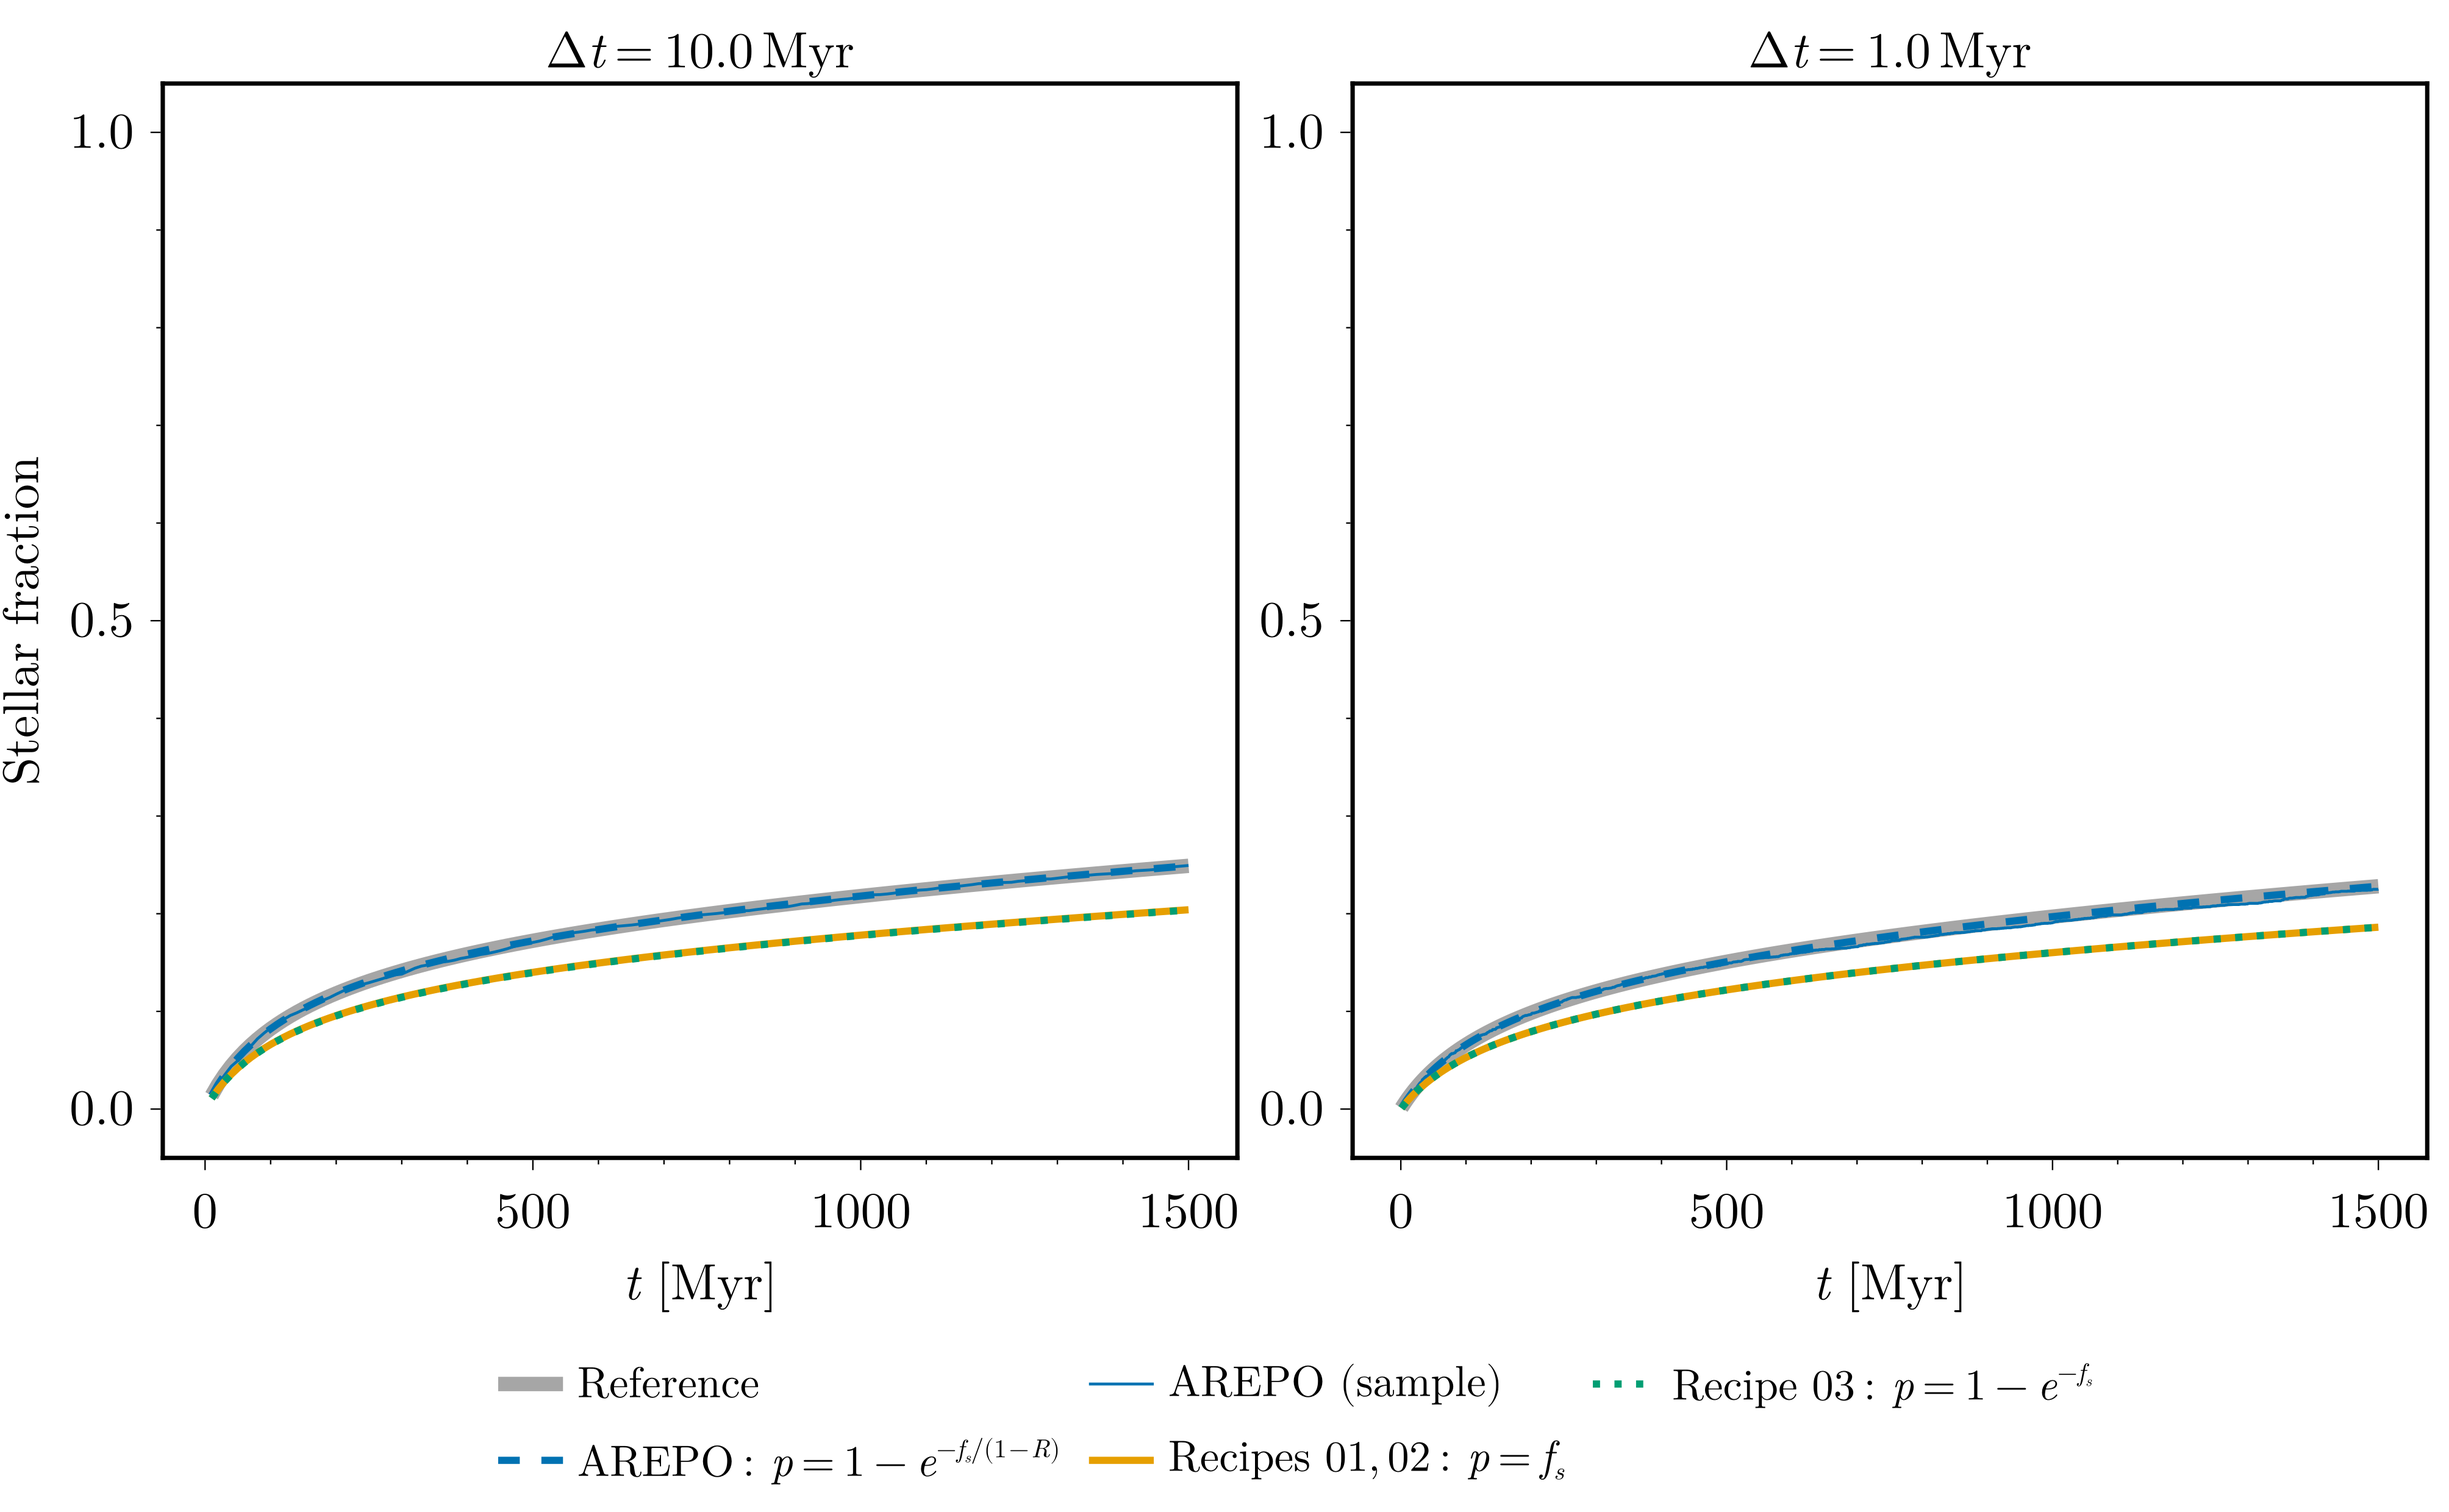
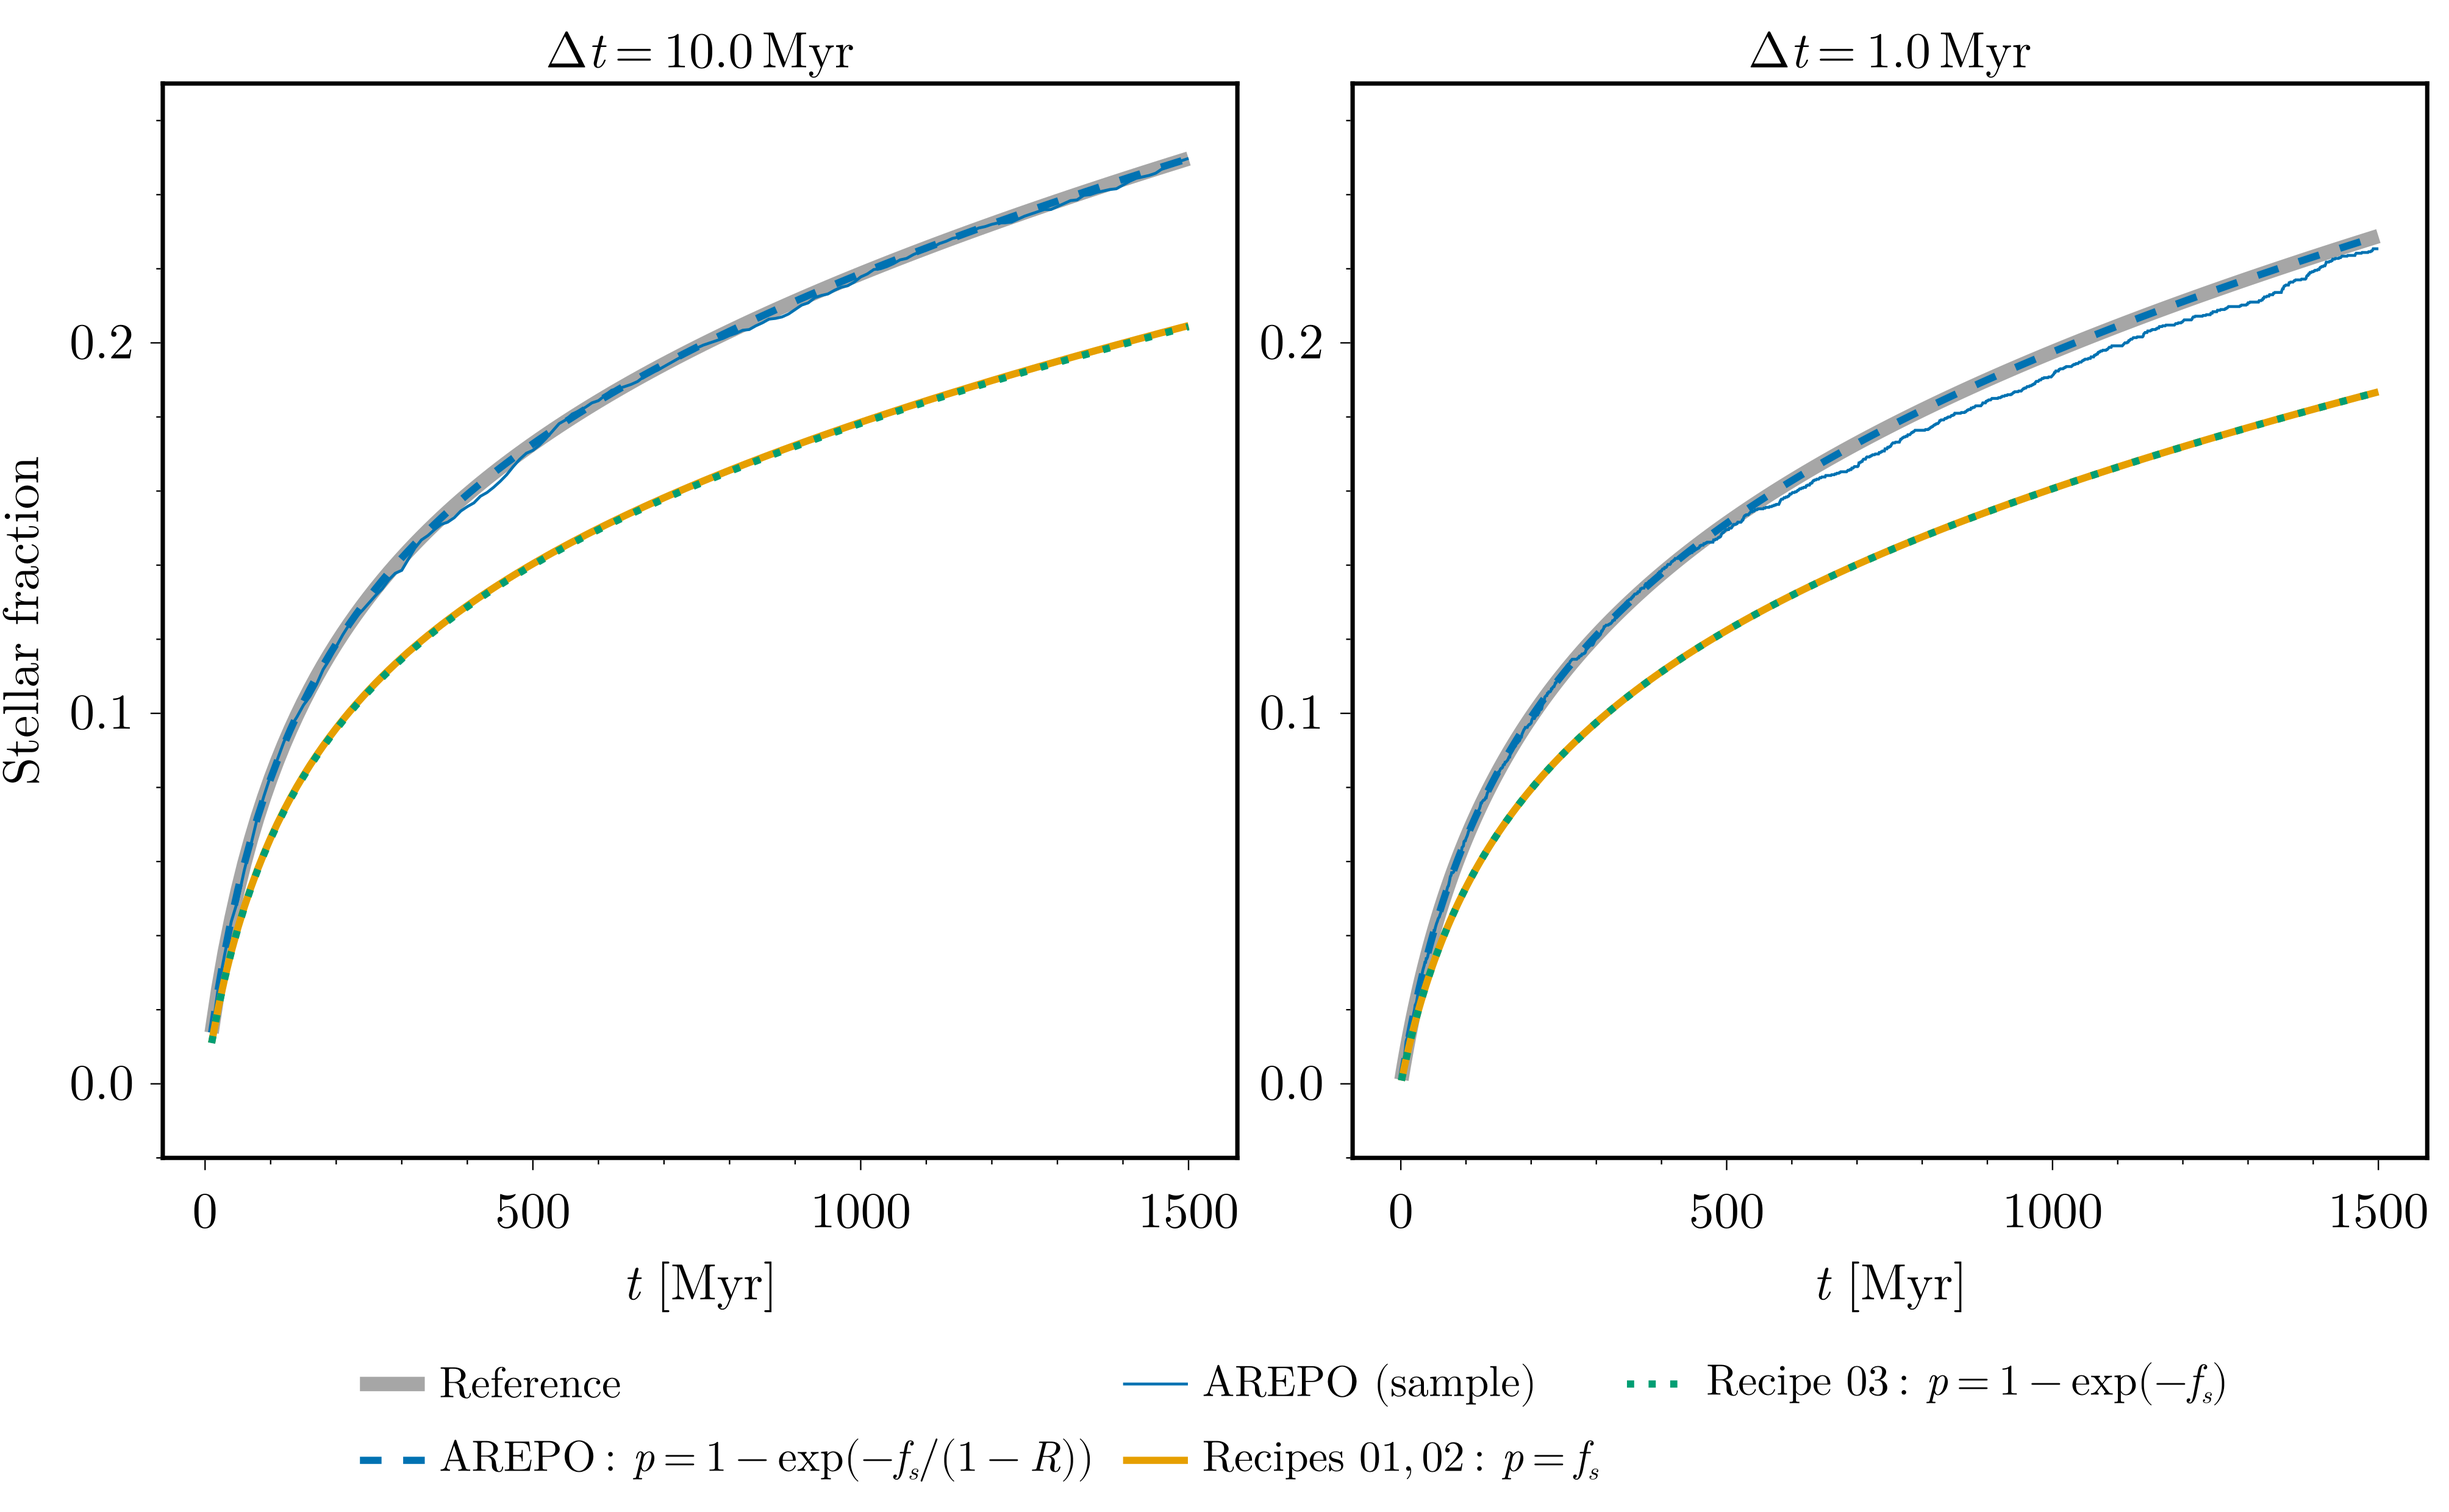
Updated the notebook 4and 5. And fix the website being pure HTML without a theme

diff --git a/generated_files/c_files/el_sfr.h b/generated_files/c_files/el_sfr.h
@@ -35,7 +35,7 @@ static char *UVB_TABLE_PATH = "../code/src/el_sfr/tables/UVB.txt";
 /* UVB model: Haardt2012 */
 /* LW background model: Incatasciato2023, J21 constant below z = 6.0 */
 /* Clumping factor: Cρ = 100.0 */
-/* Dust grains (condensation): a_eff = 0.0159 μm, s = 3.0 g cm^-3 */
+/* Dust grains (condensation): a_eff = 0.0158 μm, s = 3.0 g cm^-3 */
 /* Dust initial condition: ξ_Si = 0.25, ξ_C = 0.15 (Hirashita2012) */
 /* Dust accretion: T_gas = 100.0 K, T_dust = 10.0 K */
 /* Dust destruction: ϵ = 0.1, E_SNII = 1.09e51 erg */
@@ -43,10 +43,10 @@ static char *UVB_TABLE_PATH = "../code/src/el_sfr/tables/UVB.txt";
 
 #define N_EQU 6                          /* Number of equations */
 #define ODE_CREC 8.204976000000000e+00   /* Recombination constant [Myr^(-1) * cm^3 * mp^(-1)] */
-#define ODE_CCOND 4.149680315962227e+01  /* Condensation constant [Myr^(-1) * cm^3 * mp^(-1)] */
+#define ODE_CCOND 4.175944115430344e+01  /* Condensation constant [Myr^(-1) * cm^3 * mp^(-1)] */
 #define ODE_CS 1.942876283158012e-02     /* Star formation constant [Myr^(-1) * cm^(3/2) * mp^(-1/2)] */
-#define ODE_CACCSI 4.908642141884553e-01 /* Silicate accretion constant [Myr^(-1) * cm^3 * mp^(-1)] */
-#define ODE_CACCC 1.820696248189202e-01  /* Graphite accretion constant [Myr^(-1) * cm^3 * mp^(-1)] */
+#define ODE_CACCSI 4.939709497212937e-01 /* Silicate accretion constant [Myr^(-1) * cm^3 * mp^(-1)] */
+#define ODE_CACCC 1.832219642165083e-01  /* Graphite accretion constant [Myr^(-1) * cm^3 * mp^(-1)] */
 #define ODE_CSD 4.907796224212826e-19    /* Dust shielding constant [cm^2 * mp^(-1)] */
 #define ODE_CSH2 9.999999999999999e-16   /* Molecular self-shielding constant [cm^2 * mp^(-1)] */
 #define ODE_CLSH 2.760278182715268e+20   /* Shielding length constant [mp^(1/2) * cm^(-1/2)] */

diff --git a/website/index.md b/website/index.md
@@ -1,0 +1,7 @@
+## Notebooks
+
+  - 01 - Model ([web view](01_model.html) - [download notebook](01_model.jl)).
+  - 02 - Codegen ([web view](02_codegen.html) - [download notebook](02_codegen.jl)).
+  - 03 - Testing ([web view](03_testing.html) - [download notebook](03_testing.jl)).
+  - 04 - Plots ([web view](04_plots.html) - [download notebook](04_plots.jl)).
+  - 05 - Montecarlo ([web view](05_montecarlo.html) - [download notebook](05_montecarlo.jl)).
